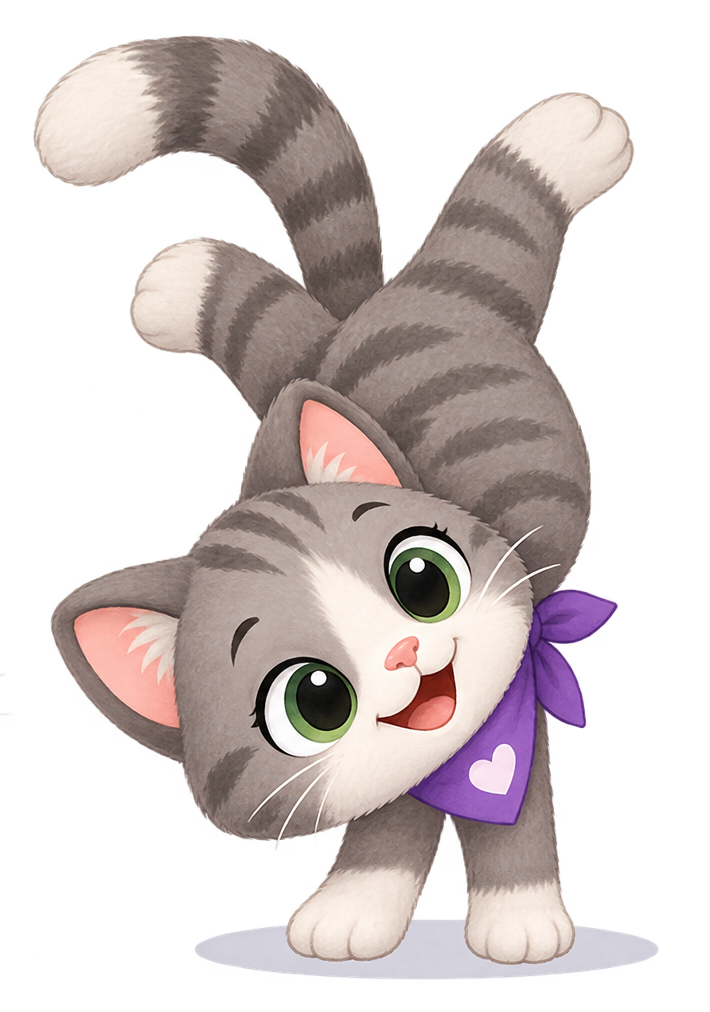
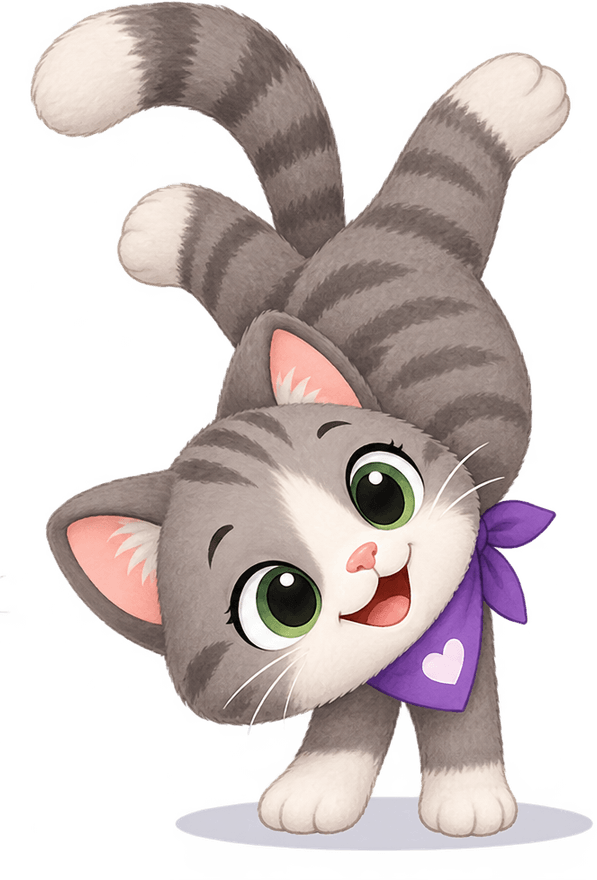
feat: B-77 Echte Grafiken für Schlafen und Radschlag eingepasst
Die gelieferten Bilder sind auf doppelte Anzeigegröße verkleinert und
zugeschnitten (Schlafbilder 640 px breit, Radschlag 880 px hoch; zusammen
573 KB statt 3,4 MB, Precache 3,4 MB). Das quer liegende Schlafbild nutzt
auf der Startseite die volle Kachelbreite und steht unten auf der
Grundlinie. Screenshots neu.

diff --git a/tests/e2e/b52-hochformat.spec.ts b/tests/e2e/b52-hochformat.spec.ts
@@ -62,16 +62,23 @@ test.describe('B-52 Hochformat-Overlay', () => {
     );
   });
 
-  test('AT-72.2: Radschlag-Bilder 384 × 440 px', async ({ page }) => {
+  test('AT-72.2/AT-77.1: Bilder scharf genug und nicht übergroß', async ({ page }) => {
     await page.goto('./');
-    for (const file of ['cat_cartwheel.png', 'pony_cartwheel.png']) {
+    // Radschlag (≤ 440 px hoch angezeigt) und Schlafbild (≤ 220 px breit) in doppelter Auflösung
+    for (const [file, side, min] of [
+      ['cat_cartwheel.png', 1, 880],
+      ['pony_cartwheel.png', 1, 880],
+      ['cat_sleeping.png', 0, 440],
+      ['pony_sleeping.png', 0, 440],
+    ] as const) {
       const size = await page.evaluate(async (src) => {
         const img = new Image();
         img.src = `avatars/${src}`;
         await img.decode();
         return [img.naturalWidth, img.naturalHeight];
       }, file);
-      expect(size, file).toEqual([384, 440]);
+      expect(size[side], file).toBeGreaterThanOrEqual(min);
+      expect(size[side], file).toBeLessThanOrEqual(min * 1.5);
     }
   });
 

diff --git a/tests/e2e/b65-schlafende-begleiter.spec.ts b/tests/e2e/b65-schlafende-begleiter.spec.ts
@@ -206,6 +206,13 @@ test.describe('B-65 Schlafende Begleiter', () => {
         document.documentElement.scrollWidth <= innerWidth,
     );
     expect(fits).toBe(true);
+    // AT-77.2: Schlafbild so breit wie die Kachel und unten ausgerichtet
+    const [tile, img] = await btn(page, 'Mimi').evaluate((t) => {
+      const i = t.querySelector('img')!;
+      return [t.getBoundingClientRect().width, i.getBoundingClientRect().width];
+    });
+    expect(img).toBeGreaterThan(tile * 0.8);
+    await expect(btn(page, 'Mimi').locator('img')).toHaveCSS('object-position', '50% 100%');
     await expect(page).toHaveScreenshot('start-schlafend.png');
   });
 });

diff --git a/src/views/start.ts b/src/views/start.ts
@@ -64,7 +64,9 @@ export function renderStart(store: Store): ViewHandle {
         value: c,
         disabled: asleep,
         content: [
-          img(asleep ? sleepingAvatarUrl(c) : avatarUrl(c, 'ruhig'), 'start__avatar'),
+          asleep
+            ? img(sleepingAvatarUrl(c), 'start__avatar start__avatar--sleeping')
+            : img(avatarUrl(c, 'ruhig'), 'start__avatar'),
           text(COMPANION_NAMES[c], 'start__name'),
         ],
       };

diff --git a/src/styles/views.css b/src/styles/views.css
@@ -277,6 +277,12 @@
   object-fit: contain;
 }
 
+/* Schlafbild liegt quer (B-77): volle Kachelbreite, unten auf der Grundlinie der Sitzbilder */
+.start__avatar--sleeping {
+  width: 100%;
+  object-position: center bottom;
+}
+
 .start__name {
   font-size: clamp(22px, 3dvh, 28px);
 }

diff --git a/backlog.md b/backlog.md
@@ -331,6 +331,10 @@ Vor Beginn einer Aufgabe werden ihre E2E-Akzeptanztests als `AT-<Nr>.<n>` direkt
   - AT-76.1: Playwright-Projekt `iphone-852x393` (WebKit, Touch); alle bisherigen Akzeptanztests laufen auch dort (Ausnahmen begründet im Test).
   - AT-76.2: Jede Ansicht (B-60) passt auf 852 × 393: kein Scrollen, kein Überlauf, Kontrast ok; Schaltflächen ≥ 44 px (Apple-Mindestmaß; die 88 px gelten fürs iPad).
   - AT-76.3: Hochformat 393 × 852: Dreh-Hinweis passt.
+- [ ] **B-77 Echte Grafiken für Schlafen und Radschlag**: Die gelieferten Bilder ersetzen die Platzhalter. Sie werden auf die doppelte Anzeigegröße verkleinert und zugeschnitten (Schlafbilder 640 px breit, Radschlag 880 px hoch), damit der Offline-Speicher unter 5 MB bleibt. Das quer liegende Schlafbild nutzt auf der Startseite die volle Kachelbreite und steht unten auf der Grundlinie der Sitzbilder.
+  - AT-77.1: Radschlag-Bilder sind 880–1320 px hoch, Schlafbilder 440–660 px breit (scharf auf Retina, nicht übergroß); AT-72.2 entsprechend angepasst.
+  - AT-77.2: Startseite mit schlafendem Begleiter: Schlafbild so breit wie die Kachel (abzüglich Rand), unten ausgerichtet; passt auf allen Viewports (Screenshot, AT-65.8).
+  - AT-77.3: Precache bleibt unter 5 MB (AT-51.5).
 - [ ] **B-63 Französische Aussprache nachbessern**: Einige französische Kokoro-Wörter klingen noch nicht gut. Mit der Abhörseite (`npm run dev` → `/mimi_mots/tools/hoerpruefung.html`) alle 50 Wörter anhören, Ergebnis in `audio-check.md` abhaken; schlechte Wörter durch eigene Aufnahmen in `audio-overrides/fr/<id>.mp3` ersetzen (oder eine andere Stimme/Engine prüfen, z. B. Piper) und `npm run audio` ausführen.
 
 ## Später
